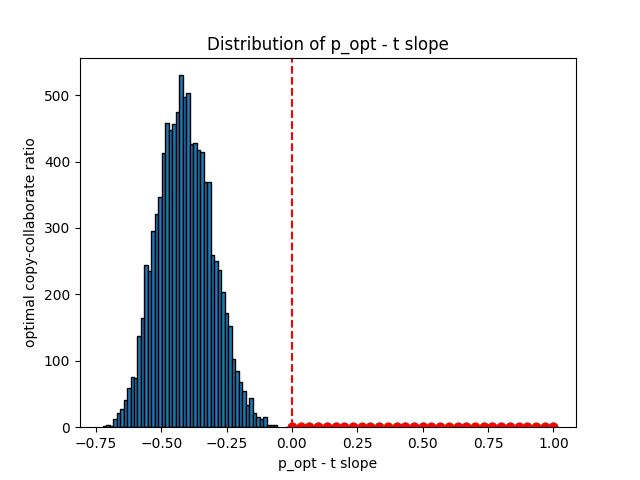
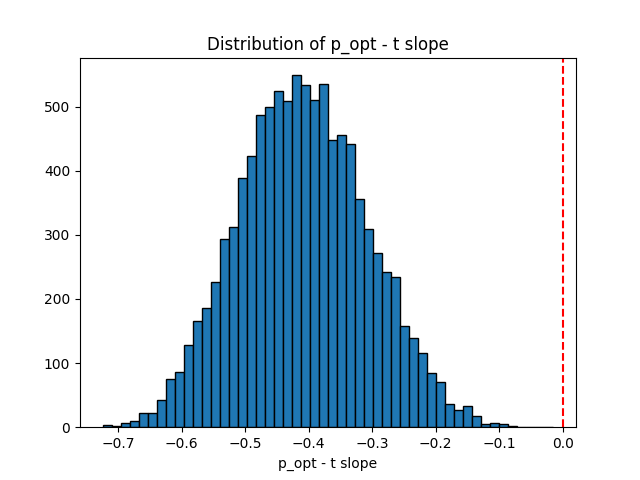
fixed most of the issues with gridSearchVisualization

diff --git a/src/tests/gridSearchVisualization.py b/src/tests/gridSearchVisualization.py
@@ -42,7 +42,8 @@ def main(input, fignum):
             
             optimal_p_idx = np.argmax(block_avg)
             p_optimal_blocks[t_idx, block_idx] = p_values[optimal_p_idx]
-            
+    
+    # plot 1: optimal copy-collaborate ratio for multiple blocks of samples, and for varying turnover ratio's
     for t_index in range(n_t):
         plt.scatter(np.full(Q, t_values[t_index]), p_optimal_blocks[t_index], alpha=0.1)
         plt.scatter(t_values[t_index], np.average(p_optimal_blocks[t_index]), color='red')
@@ -51,6 +52,7 @@ def main(input, fignum):
     plt.ylabel('optimal copy-collaborate ratio')
     plt.title(f'optimal copy-collaborate per block of {block_size} samples')
     plt.savefig(f'{results_directory}/opt_p_vs_t{fignum}.png')
+    plt.show()
 
     # bootstrap: calculate slope of many random picks of points
     n_bootstrap = 10000
@@ -63,31 +65,25 @@ def main(input, fignum):
         slope, _ = np.polyfit(t_values, y_bootstrap, 1)
         slopes[b] = slope
 
+    # plot 2: histogram of the slope fitting to random optimal-p t points
     plt.hist(slopes, bins=50, edgecolor='black')
     plt.axvline(x=0, color='red', linestyle='--')
     plt.xlabel('p_opt - t slope')
     plt.title('Distribution of p_opt - t slope')
     plt.savefig(f'{results_directory}/dist_opt_p{fignum}.png')
+    plt.show()
 
-    p_value_negative = np.mean(slopes >= 0)  # proportion of slopes ≥ 0 under null
-    print(f"p-value for slope < 0: {p_value_negative}")
 
-    optimal_p_indices = np.argmax(simulation_results, axis=0)
-    optimal_p = p_values[optimal_p_indices]
-    optimal_values = simulation_results[optimal_p_indices, np.arange(len(t_values))]
+    # Plot 3: average fitness across the whole p-t range
+    single_avg_results = np.average(simulation_results, axis=2)
 
-    lin_regression = stats.linregress(t_values, optimal_p)
-    print("linear regression p-value: ", lin_regression.pvalue)
-
-    # Plot 1
     P, T = np.meshgrid(t_values, p_values)
 
     fig = plt.figure()
     ax = fig.add_subplot(111, projection='3d')
 
-    surf = ax.plot_surface(P, T, simulation_results, cmap='viridis', alpha=0.8, linewidth=0.5, edgecolor='k')
-    ax.plot(t_values, optimal_p, optimal_values, color='red', linewidth=3)
-    ax.contour(P, T, simulation_results, zdir='z', offset=simulation_results.min() - 0.1, cmap='viridis', alpha=0.5)
+    surf = ax.plot_surface(P, T, single_avg_results, cmap='viridis', alpha=0.8, linewidth=0.5, edgecolor='k')
+    ax.contour(P, T, single_avg_results, zdir='z', offset=single_avg_results.min() - 0.1, cmap='viridis', alpha=0.5)
 
     ax.set_xlabel('t')
     ax.set_ylabel('p')
@@ -97,10 +93,10 @@ def main(input, fignum):
     ax.grid(True, alpha=0.3)
     plt.tight_layout()
     plt.savefig(f'{results_directory}/avg_perform_t20{fignum}.png')
+    plt.show()
 
 
-
-    # Plot 2
+    # Plot 4: average fitness - copy-collaborate ratio curve for varying turnover rates, as a 2D plot
     fig2, ax2 = plt.subplots(figsize=(12, 8))
 
     norm = plt.Normalize(t_values.min(), t_values.max())
@@ -108,10 +104,10 @@ def main(input, fignum):
     for i, t in enumerate(t_values):
         color = plt.cm.viridis(norm(t))
 
-        ax2.plot(p_values, simulation_results[:, i], color=color, alpha=0.5, linewidth=1.5, label=f't={t:.2f}')
-        opt_index = optimal_p_indices[i]
-        ax2.scatter(p_values[opt_index], simulation_results[opt_index, i], color=color, s=80, marker='X', alpha=0.8, linewidth=2)
-        print(f't={t:.2f}, optimal p={p_values[opt_index]:.2f}, performance={simulation_results[opt_index, i]:.4f}')
+        ax2.plot(p_values, single_avg_results[:, i], color=color, alpha=0.5, linewidth=1.5, label=f't={t:.2f}')
+        opt_index = np.argmax(single_avg_results[:, i])
+        ax2.scatter(p_values[opt_index], single_avg_results[opt_index, i], color=color, s=80, marker='X', alpha=0.8, linewidth=2)
+        print(f't={t:.2f}, optimal p={p_values[opt_index]:.2f}, performance={single_avg_results[opt_index, i]:.4f}')
 
     sm = plt.cm.ScalarMappable(cmap=plt.cm.viridis, norm=norm)
     sm.set_array([])
@@ -124,67 +120,10 @@ def main(input, fignum):
 
     plt.tight_layout()
     plt.savefig(f'{results_directory}/avg_perform{fignum}.png')
-    simulation_results = np.load(sys.argv[1])
-
-    p_values = np.linspace(0, 1, simulation_results.shape[0])
-    t_values = np.linspace(0, 1, simulation_results.shape[1])
-
-    optimal_p_indices = np.argmax(simulation_results, axis=0)
-    optimal_p = p_values[optimal_p_indices]
-    optimal_values = simulation_results[optimal_p_indices, np.arange(len(t_values))]
-
-    lin_regression = stats.linregress(t_values, optimal_p, alternative='less')
-    print("linear regression slope: ", lin_regression.slope, "linear regression intercept: ", lin_regression.intercept)
-    print("p-value: ", lin_regression.pvalue)
-
-    # Plot 1
-    P, T = np.meshgrid(t_values, p_values)
-
-    fig = plt.figure()
-    ax = fig.add_subplot(111, projection='3d')
-
-    surf = ax.plot_surface(P, T, simulation_results, cmap='viridis', alpha=0.8, linewidth=0.5, edgecolor='k')
-    ax.plot(t_values, optimal_p, optimal_values, color='red', linewidth=3)
-    ax.contour(P, T, simulation_results, zdir='z', offset=simulation_results.min() - 0.1, cmap='viridis', alpha=0.5)
-
-    ax.set_xlabel('t')
-    ax.set_ylabel('p')
-    ax.set_zlabel('Average Performance at t=20')
-
-    fig.colorbar(surf, ax=ax)
-    ax.grid(True, alpha=0.3)
-    plt.tight_layout()
-    plt.savefig(f'{results_directory}/opt_p_vs_t{fignum}.png')
+    plt.show()
 
 
-
-    # Plot 2
-    fig2, ax2 = plt.subplots(figsize=(12, 8))
-
-    norm = plt.Normalize(t_values.min(), t_values.max())
-
-    for i, t in enumerate(t_values):
-        color = plt.cm.viridis(norm(t))
-
-        ax2.plot(p_values, simulation_results[:, i], color=color, alpha=0.5, linewidth=1.5, label=f't={t:.2f}')
-        opt_index = optimal_p_indices[i]
-        ax2.scatter(p_values[opt_index], simulation_results[opt_index, i], color=color, s=80, marker='X', alpha=0.8, linewidth=2)
-        print(f't={t:.2f}, optimal p={p_values[opt_index]:.2f}, performance={simulation_results[opt_index, i]:.4f}')
-
-    sm = plt.cm.ScalarMappable(cmap=plt.cm.viridis, norm=norm)
-    sm.set_array([])
-    cbar = fig2.colorbar(sm, ax=ax2)
-    cbar.set_label('turnover percentage', fontsize=12)
-
-    ax2.set_xlabel('copy-collaborate ratio')
-    ax2.set_ylabel('Average Performance')
-    ax2.grid(True, alpha=0.3)
-
-    plt.tight_layout()
-    plt.savefig(f'{results_directory}/avg_perf_p_vs_t{fignum}.png')
-
-
-    # Plot 3
+    # Plot 5: ...
     t = 0
     p = 0.67
     def plot_avg_vs_time_loglog(csv_path=f"avg_vs_time_{p}_{t}.csv"):
@@ -210,6 +149,7 @@ def main(input, fignum):
         plt.grid(True, which="both", ls="--", alpha=0.5)
         plt.tight_layout()
         plt.savefig(f"{results_directory}/avg_vs_time_loglog_{p}_{t}{fignum}.png", dpi=300)
+        plt.show()
 
     plot_avg_vs_time_loglog(csv_path=f"avg_vs_time_{p}_{t}.csv")
 
